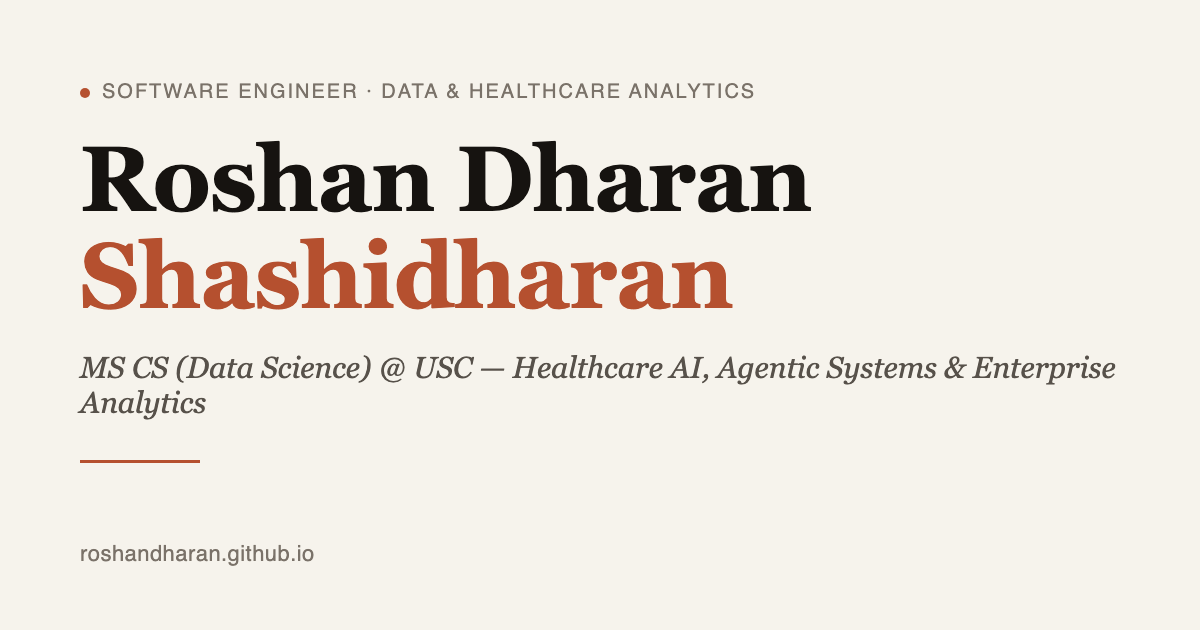
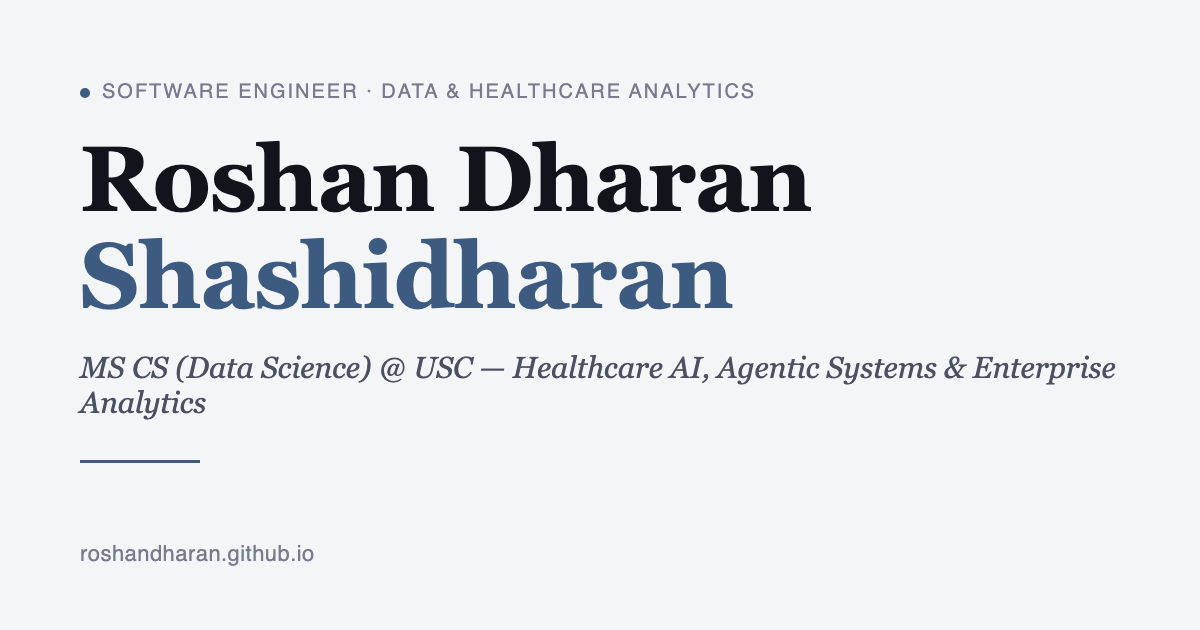
Replace warm cream/orange palette, fix double-border on cover art, fix real bugs
- Swap the color system: cool off-white/white paper background with a steel-blue accent, replacing the cream + terracotta palette that read too close to Claude's brand colors. Applied across every page, both themes, favicon, PWA icons, and the OG social card.
- Remove the redundant inner border drawn inside each SVG project cover (it was double-stacking with the card's own CSS border, creating a visible gap/frame-in-frame look)
- Fix a broken SVG: an unescaped "&" in the RAG Agent cover's caption text made it invalid XML, so the browser silently failed to render it (showed alt text instead of the image)
- Fix a real reliability bug: theme persistence read/wrote localStorage with no error handling; if storage access throws (privacy modes, blocked storage, some corporate/mobile browsers), the whole script halted before ever running the scroll-reveal logic, which could leave entire pages looking blank since content depended on JS to become visible. Wrapped storage access in try/catch and flipped .reveal to be visible by default in CSS, with JS opting elements into the fade-in only once it's confirmed working
- Fix a stale asset reference (pinnacle-award.jpg -> .png) that 404'd on the live site

diff --git a/css/style.css b/css/style.css
@@ -4,22 +4,22 @@
    ========================================================= */
 
 :root{
-  --bg:#f6f3ec;
-  --paper:#fbf9f4;
-  --surface: rgba(20,17,14,.035);
-  --surface2: rgba(20,17,14,.065);
-  --border: rgba(20,17,14,.14);
-  --border-strong: rgba(20,17,14,.28);
-  --text:#161310;
-  --muted:#57514a;
-  --muted2:#7a7269;
-  --accent:#b5502f;
-  --accent-ink:#fff9f4;
-  --shadow: 0 1px 2px rgba(20,17,14,.04);
+  --bg:#f4f5f7;
+  --paper:#ffffff;
+  --surface: rgba(16,19,28,.035);
+  --surface2: rgba(16,19,28,.065);
+  --border: rgba(16,19,28,.13);
+  --border-strong: rgba(16,19,28,.26);
+  --text:#12141c;
+  --muted:#4b5163;
+  --muted2:#767c8e;
+  --accent:#3d5a80;
+  --accent-ink:#f5f8fb;
+  --shadow: 0 1px 2px rgba(16,19,28,.04);
   --radius: 2px;
   --radius2: 2px;
   --max: 1080px;
-  --focus: 0 0 0 3px rgba(181,80,47,.35);
+  --focus: 0 0 0 3px rgba(61,90,128,.35);
   --gridGap: 1px;
   --font: "Inter", ui-sans-serif, system-ui, -apple-system, "Segoe UI", Roboto, Helvetica, Arial, sans-serif;
   --serif: "Fraunces", "Iowan Old Style", "Palatino Linotype", Georgia, serif;
@@ -27,17 +27,17 @@
 }
 
 [data-theme="dark"]{
-  --bg:#141210;
-  --paper:#1a1714;
-  --surface: rgba(255,251,245,.045);
-  --surface2: rgba(255,251,245,.08);
-  --border: rgba(255,251,245,.14);
-  --border-strong: rgba(255,251,245,.30);
-  --text:#f4efe7;
-  --muted:#c2b9ad;
-  --muted2:#948a7d;
-  --accent:#e08355;
-  --accent-ink:#1a1210;
+  --bg:#12141a;
+  --paper:#1a1d26;
+  --surface: rgba(240,243,250,.045);
+  --surface2: rgba(240,243,250,.08);
+  --border: rgba(240,243,250,.14);
+  --border-strong: rgba(240,243,250,.30);
+  --text:#eef1f6;
+  --muted:#b6bccb;
+  --muted2:#868da0;
+  --accent:#7ba3cc;
+  --accent-ink:#0d1a26;
   --shadow: 0 1px 2px rgba(0,0,0,.3);
   --focus: 0 0 0 3px rgba(224,131,85,.35);
 }
@@ -541,8 +541,9 @@ kbd{
   color: var(--text);
 }
 
-.reveal{ opacity: 0; transform: translateY(8px); transition: opacity .45s ease, transform .45s ease; }
-.reveal.in{ opacity: 1; transform: translateY(0px); }
+.reveal{ transition: opacity .45s ease, transform .45s ease; }
+.reveal.pre{ opacity: 0; transform: translateY(8px); }
+.reveal.pre.in{ opacity: 1; transform: translateY(0px); }
 
 button.media{ padding:0; cursor:pointer; color:inherit; background:none; border:1px solid var(--border); }
 button.media:focus{ outline:none; box-shadow: var(--focus); }

diff --git a/js/main.js b/js/main.js
@@ -14,14 +14,16 @@
 
   // ---------- Theme ----------
   const themeBtn = $("#themeToggle");
+  const readStoredTheme = () => { try { return localStorage.getItem("theme"); } catch { return null; } };
+  const writeStoredTheme = (t) => { try { localStorage.setItem("theme", t); } catch {} };
   const getPreferredTheme = () => {
-    const saved = localStorage.getItem("theme");
+    const saved = readStoredTheme();
     if (saved === "light" || saved === "dark") return saved;
     return window.matchMedia && window.matchMedia("(prefers-color-scheme: dark)").matches ? "dark" : "light";
   };
   const applyTheme = (t) => {
     document.documentElement.setAttribute("data-theme", t);
-    localStorage.setItem("theme", t);
+    writeStoredTheme(t);
     if (themeBtn) themeBtn.setAttribute("aria-label", t === "light" ? "Switch to dark theme" : "Switch to light theme");
   };
   applyTheme(getPreferredTheme());
@@ -56,8 +58,12 @@
   });
 
   // ---------- Reveal on scroll ----------
+  // Content is visible by default in CSS (.reveal has no starting opacity:0);
+  // only once we know JS + IntersectionObserver are working do we opt elements
+  // into the fade-in effect, so a script error never leaves the page blank.
   const reveal = $$(".reveal");
   if ("IntersectionObserver" in window && reveal.length){
+    reveal.forEach(el => el.classList.add("pre"));
     const io = new IntersectionObserver((entries) => {
       for (const e of entries){
         if (e.isIntersecting) e.target.classList.add("in");

diff --git a/awards.html b/awards.html
@@ -3,7 +3,7 @@
 <head>
 <meta charset="utf-8" />
 <meta name="viewport" content="width=device-width, initial-scale=1" />
-<meta name="theme-color" content="#f6f3ec" />
+<meta name="theme-color" content="#f4f5f7" />
 <title>Awards | Roshan Dharan</title>
 <meta name="description" content="Awards and recognition — with certificate previews." />
 <link rel="canonical" href="https://roshandharan.github.io/awards.html" />
@@ -71,7 +71,7 @@
     <div class="grid">
       
     <article class="card reveal">
-      <button class="media award" data-modal="image" data-title="FY25Q4 Oracle Pinnacle Award" data-desc="Jul 2025" data-src="assets/pinnacle-award.jpg" aria-label="Open preview for FY25Q4 Oracle Pinnacle Award">
+      <button class="media award" data-modal="image" data-title="FY25Q4 Oracle Pinnacle Award" data-desc="Jul 2025" data-src="assets/pinnacle-award.png" aria-label="Open preview for FY25Q4 Oracle Pinnacle Award">
         <img src="assets/pinnacle-award.png" alt="FY25Q4 Oracle Pinnacle Award certificate" loading="lazy" />
       </button>
       <h3>FY25Q4 Oracle Pinnacle Award</h3>

diff --git a/experience.html b/experience.html
@@ -3,7 +3,7 @@
 <head>
 <meta charset="utf-8" />
 <meta name="viewport" content="width=device-width, initial-scale=1" />
-<meta name="theme-color" content="#f6f3ec" />
+<meta name="theme-color" content="#f4f5f7" />
 <title>Experience | Roshan Dharan</title>
 <meta name="description" content="Professional experience of Roshan Dharan Shashidharan across healthcare software engineering and analytics." />
 <link rel="canonical" href="https://roshandharan.github.io/experience.html" />

diff --git a/index.html b/index.html
@@ -3,7 +3,7 @@
 <head>
 <meta charset="utf-8" />
 <meta name="viewport" content="width=device-width, initial-scale=1" />
-<meta name="theme-color" content="#f6f3ec" />
+<meta name="theme-color" content="#f4f5f7" />
 <title>Roshan Dharan | Portfolio</title>
 <meta name="description" content="Portfolio of Roshan Dharan Shashidharan — experience, projects, publications, certifications, awards, and resume." />
 <link rel="canonical" href="https://roshandharan.github.io/" />

diff --git a/certifications.html b/certifications.html
@@ -3,7 +3,7 @@
 <head>
 <meta charset="utf-8" />
 <meta name="viewport" content="width=device-width, initial-scale=1" />
-<meta name="theme-color" content="#f6f3ec" />
+<meta name="theme-color" content="#f4f5f7" />
 <title>Certifications | Roshan Dharan</title>
 <meta name="description" content="Certifications for Roshan Dharan Shashidharan." />
 <link rel="canonical" href="https://roshandharan.github.io/certifications.html" />

diff --git a/projects.html b/projects.html
@@ -3,7 +3,7 @@
 <head>
 <meta charset="utf-8" />
 <meta name="viewport" content="width=device-width, initial-scale=1" />
-<meta name="theme-color" content="#f6f3ec" />
+<meta name="theme-color" content="#f4f5f7" />
 <title>Projects | Roshan Dharan</title>
 <meta name="description" content="Projects portfolio — filtering and search enabled." />
 <link rel="canonical" href="https://roshandharan.github.io/projects.html" />

diff --git a/publications.html b/publications.html
@@ -3,7 +3,7 @@
 <head>
 <meta charset="utf-8" />
 <meta name="viewport" content="width=device-width, initial-scale=1" />
-<meta name="theme-color" content="#f6f3ec" />
+<meta name="theme-color" content="#f4f5f7" />
 <title>Publications | Roshan Dharan</title>
 <meta name="description" content="Publications and peer-reviewed work." />
 <link rel="canonical" href="https://roshandharan.github.io/publications.html" />

diff --git a/resume.html b/resume.html
@@ -3,7 +3,7 @@
 <head>
 <meta charset="utf-8" />
 <meta name="viewport" content="width=device-width, initial-scale=1" />
-<meta name="theme-color" content="#f6f3ec" />
+<meta name="theme-color" content="#f4f5f7" />
 <title>Resume | Roshan Dharan</title>
 <meta name="description" content="Resume PDF embed and download." />
 <link rel="canonical" href="https://roshandharan.github.io/resume.html" />

diff --git a/404.html b/404.html
@@ -3,7 +3,7 @@
 <head>
 <meta charset="utf-8" />
 <meta name="viewport" content="width=device-width, initial-scale=1" />
-<meta name="theme-color" content="#f6f3ec" />
+<meta name="theme-color" content="#f4f5f7" />
 <title>404 | Roshan Dharan</title>
 <meta name="description" content="Page not found." />
 <link rel="canonical" href="https://roshandharan.github.io/404.html" />
